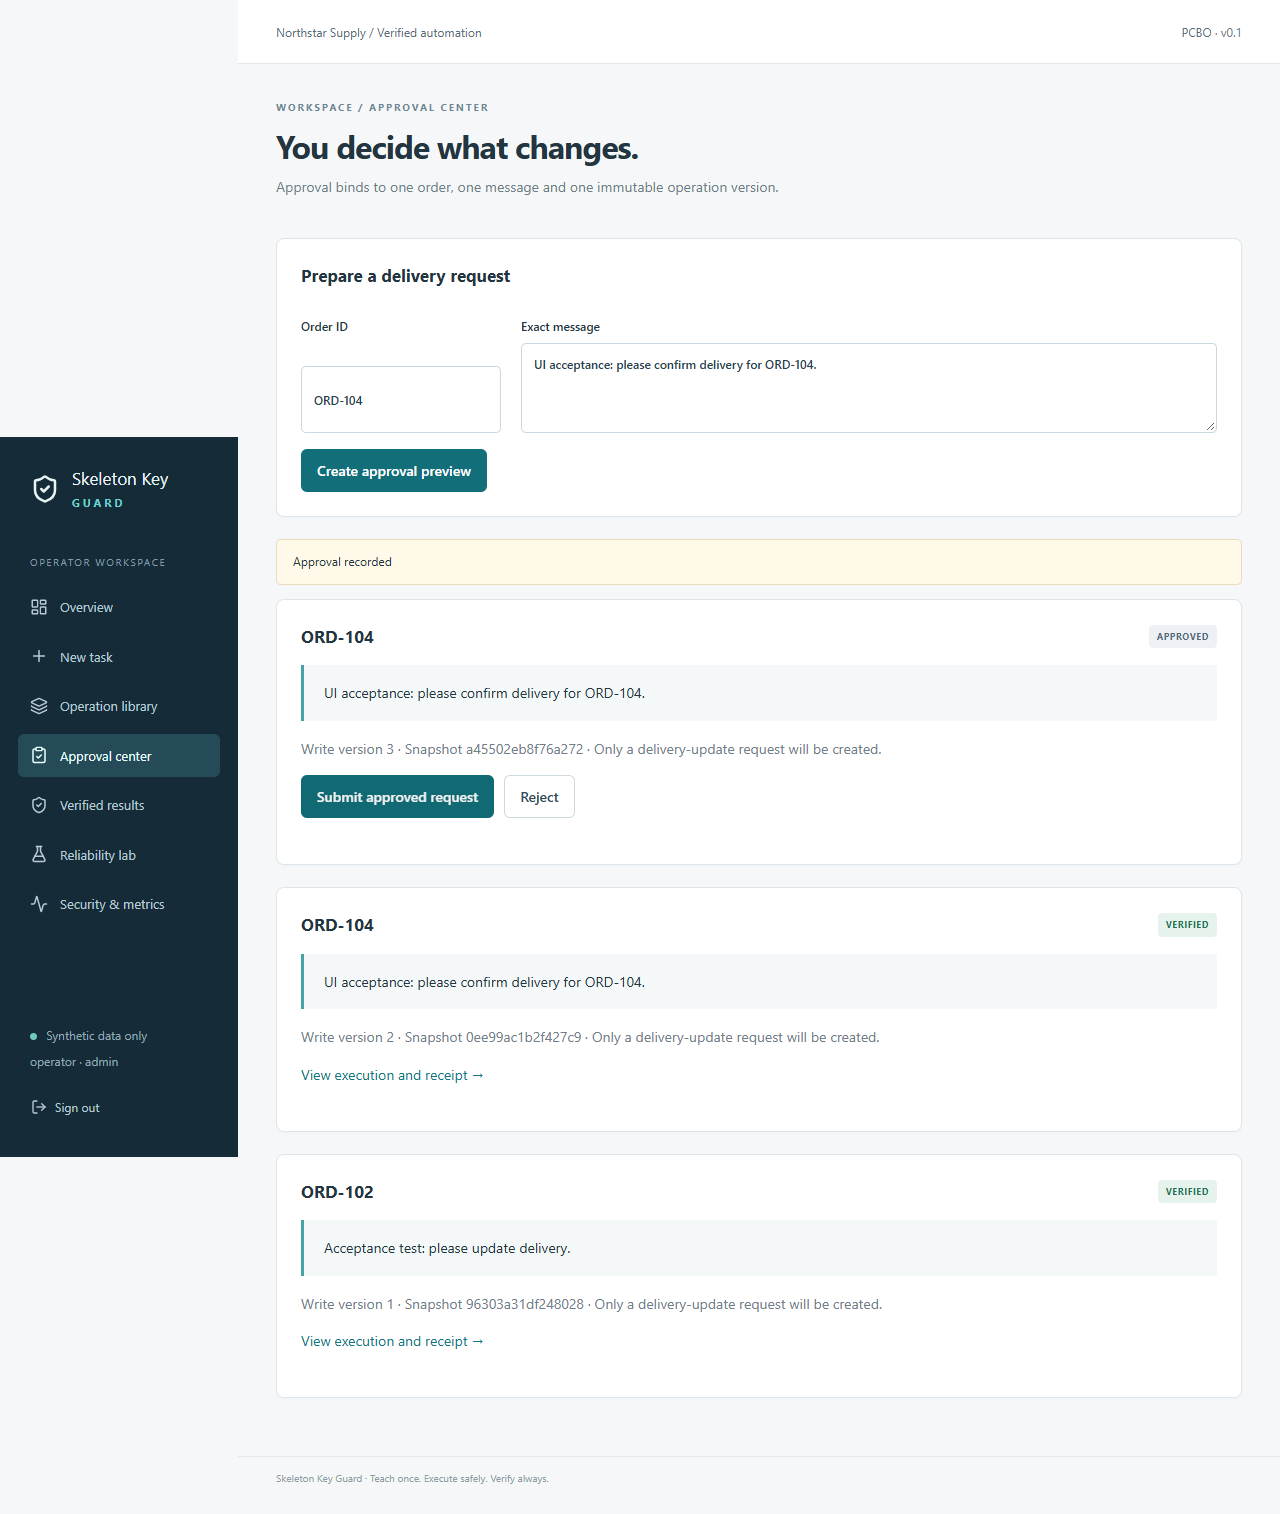
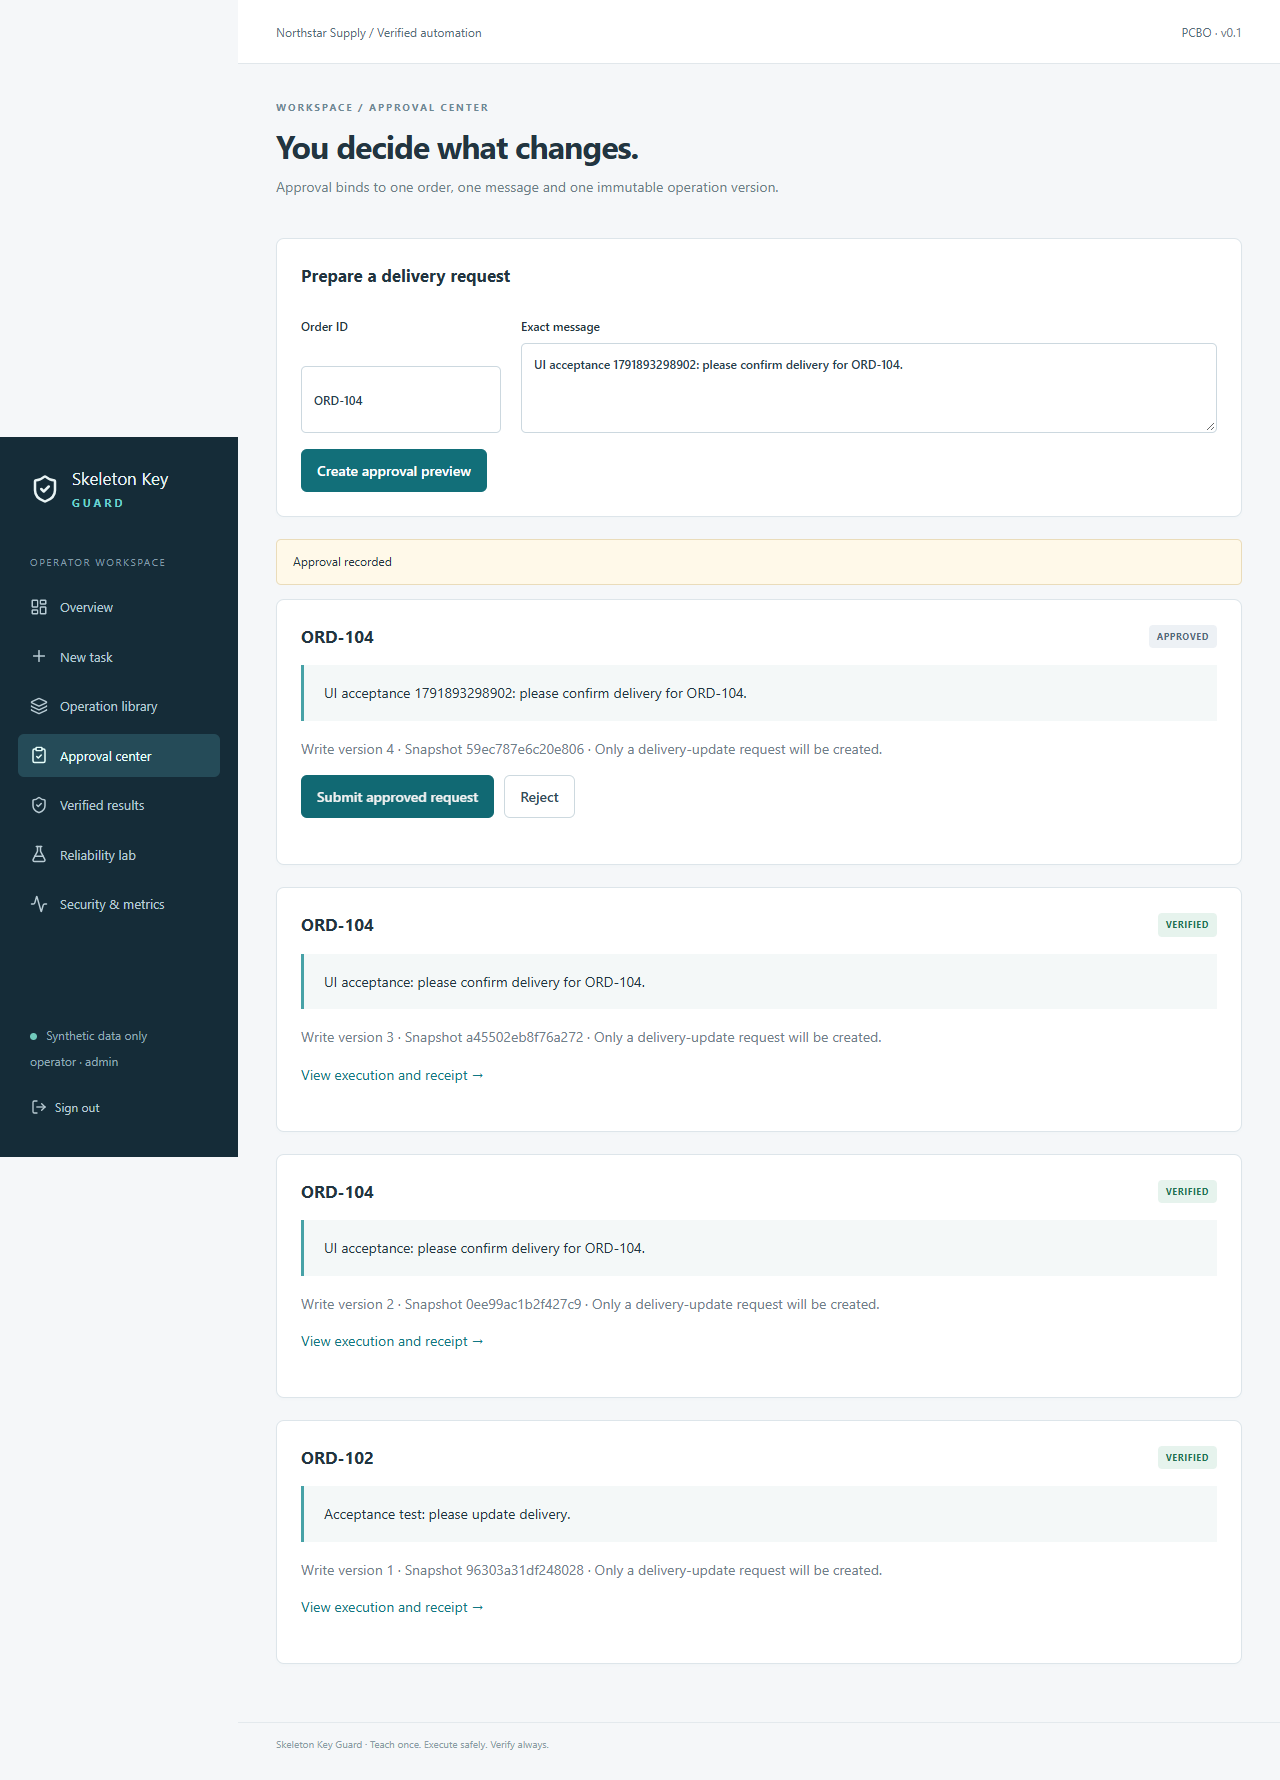
Wait for operation data before reviewing writes in UI acceptance

diff --git a/apps/web/tests/fulfillment.spec.ts b/apps/web/tests/fulfillment.spec.ts
@@ -12,6 +12,7 @@ test('real UI approval submits through Docker and displays independently verifie
   await expect(page.getByRole('heading',{name:'Every action. Accounted for.'})).toBeVisible();
   page.on('dialog',dialog=>dialog.accept());
   await page.getByRole('navigation').getByRole('link',{name:'Operation library'}).click();
+  await expect(page.getByRole('heading',{name:'submit_delivery_request',exact:true})).toBeVisible();
   const review=page.getByRole('button',{name:'Review and activate latest write version'});
   if(await review.count()){
     await review.click();
@@ -19,7 +20,7 @@ test('real UI approval submits through Docker and displays independently verifie
   }
   await page.getByRole('navigation').getByRole('link',{name:'Approval center'}).click();
   await page.getByLabel('Order ID',{exact:true}).fill('ORD-104');
-  const message='UI acceptance: please confirm delivery for ORD-104.';
+  const message=`UI acceptance ${Date.now()}: please confirm delivery for ORD-104.`;
   await page.getByLabel('Exact message').fill(message);
   await page.getByRole('button',{name:'Create approval preview'}).click();
   const card=page.locator('.panel').filter({has:page.locator('blockquote',{hasText:message})}).first();
